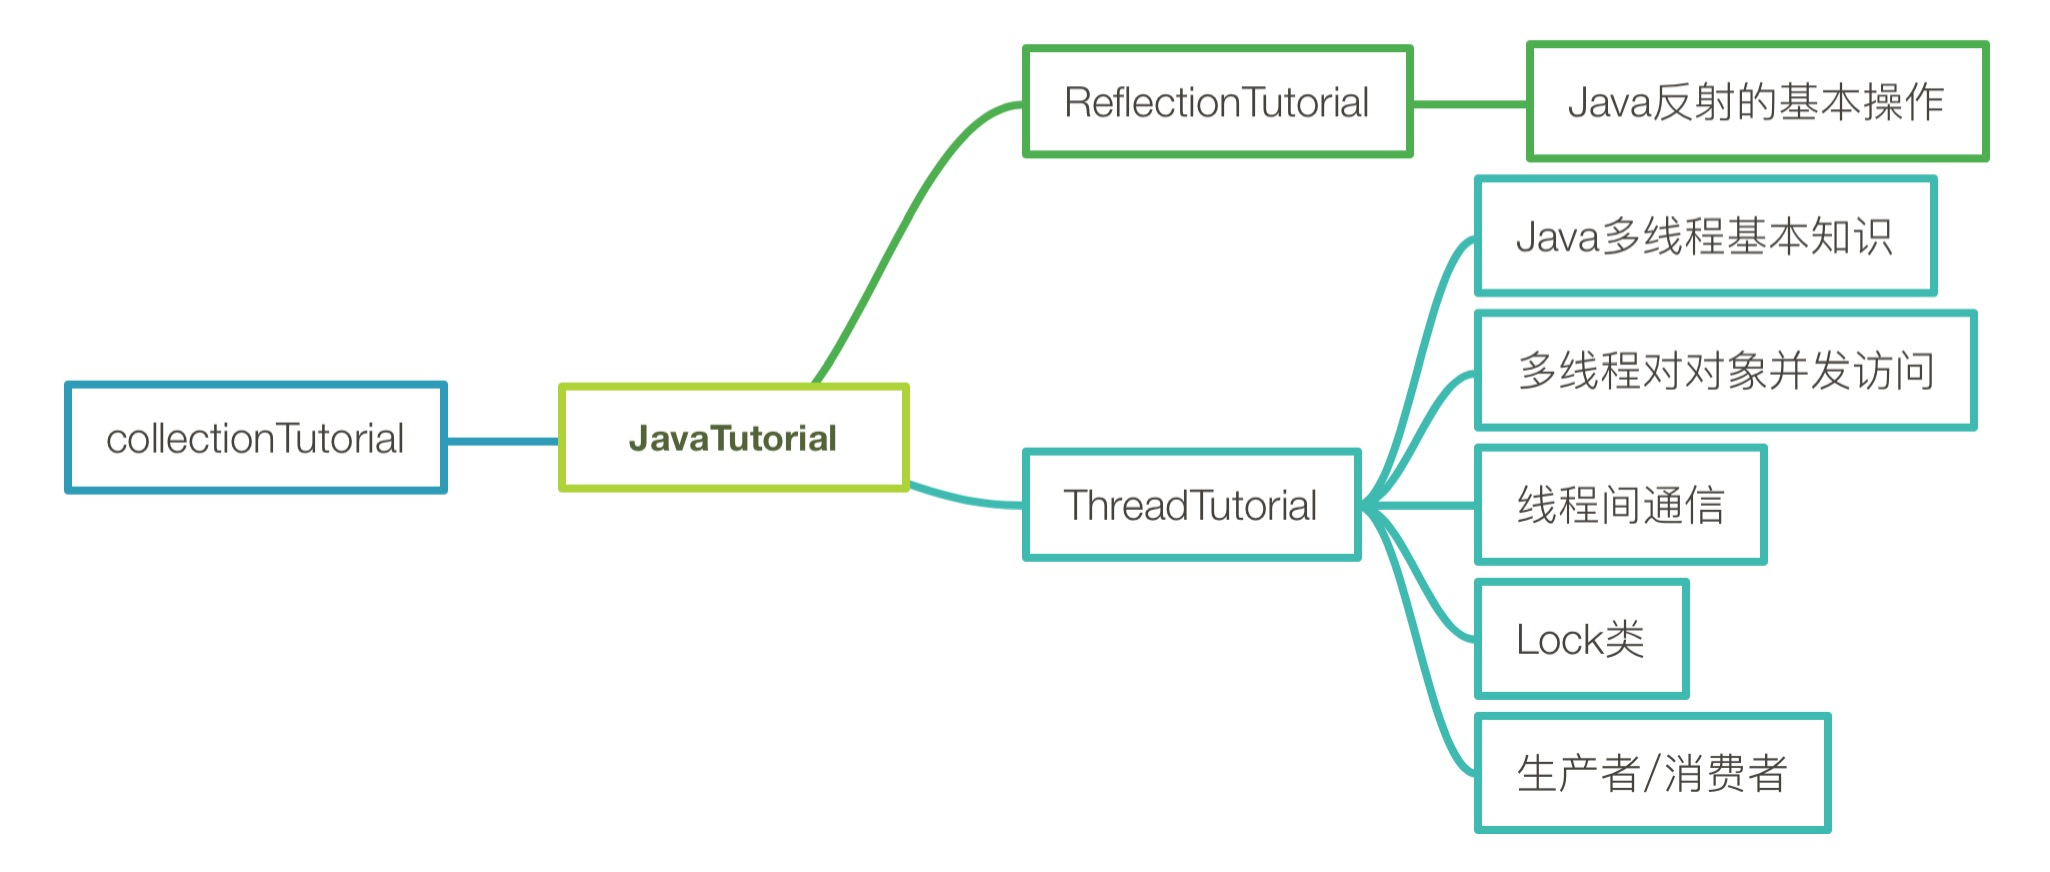
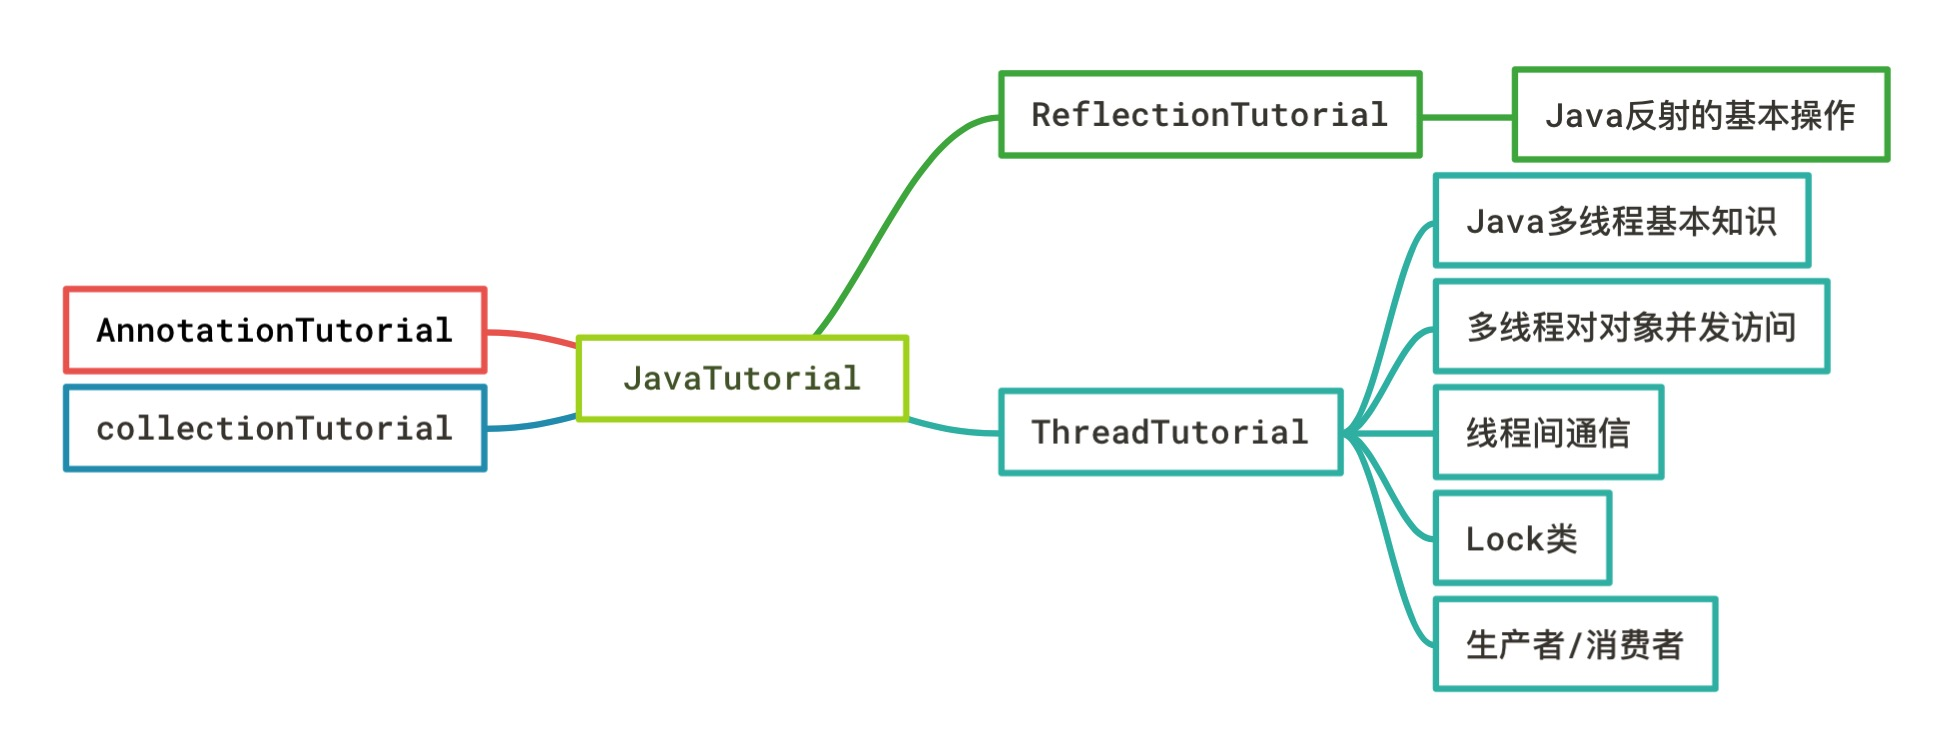
修改ReadMe

Changed region(s): [[0.0309, 0.0312, 0.9897, 0.9688]]

diff --git a/README.md b/README.md
@@ -62,6 +62,9 @@ listtutorial中的知识点有
 - 实现一个简单的ArrayList
 
 
+## AnnotationTutorial内容说明
+
+在源码路径下`cn.byhieg.annotationtutorial`中放置的是Java注解类的代码和测试例子。在每一个包里面，都有一个ReadMe来说明该章的知识点。
 
 
 
